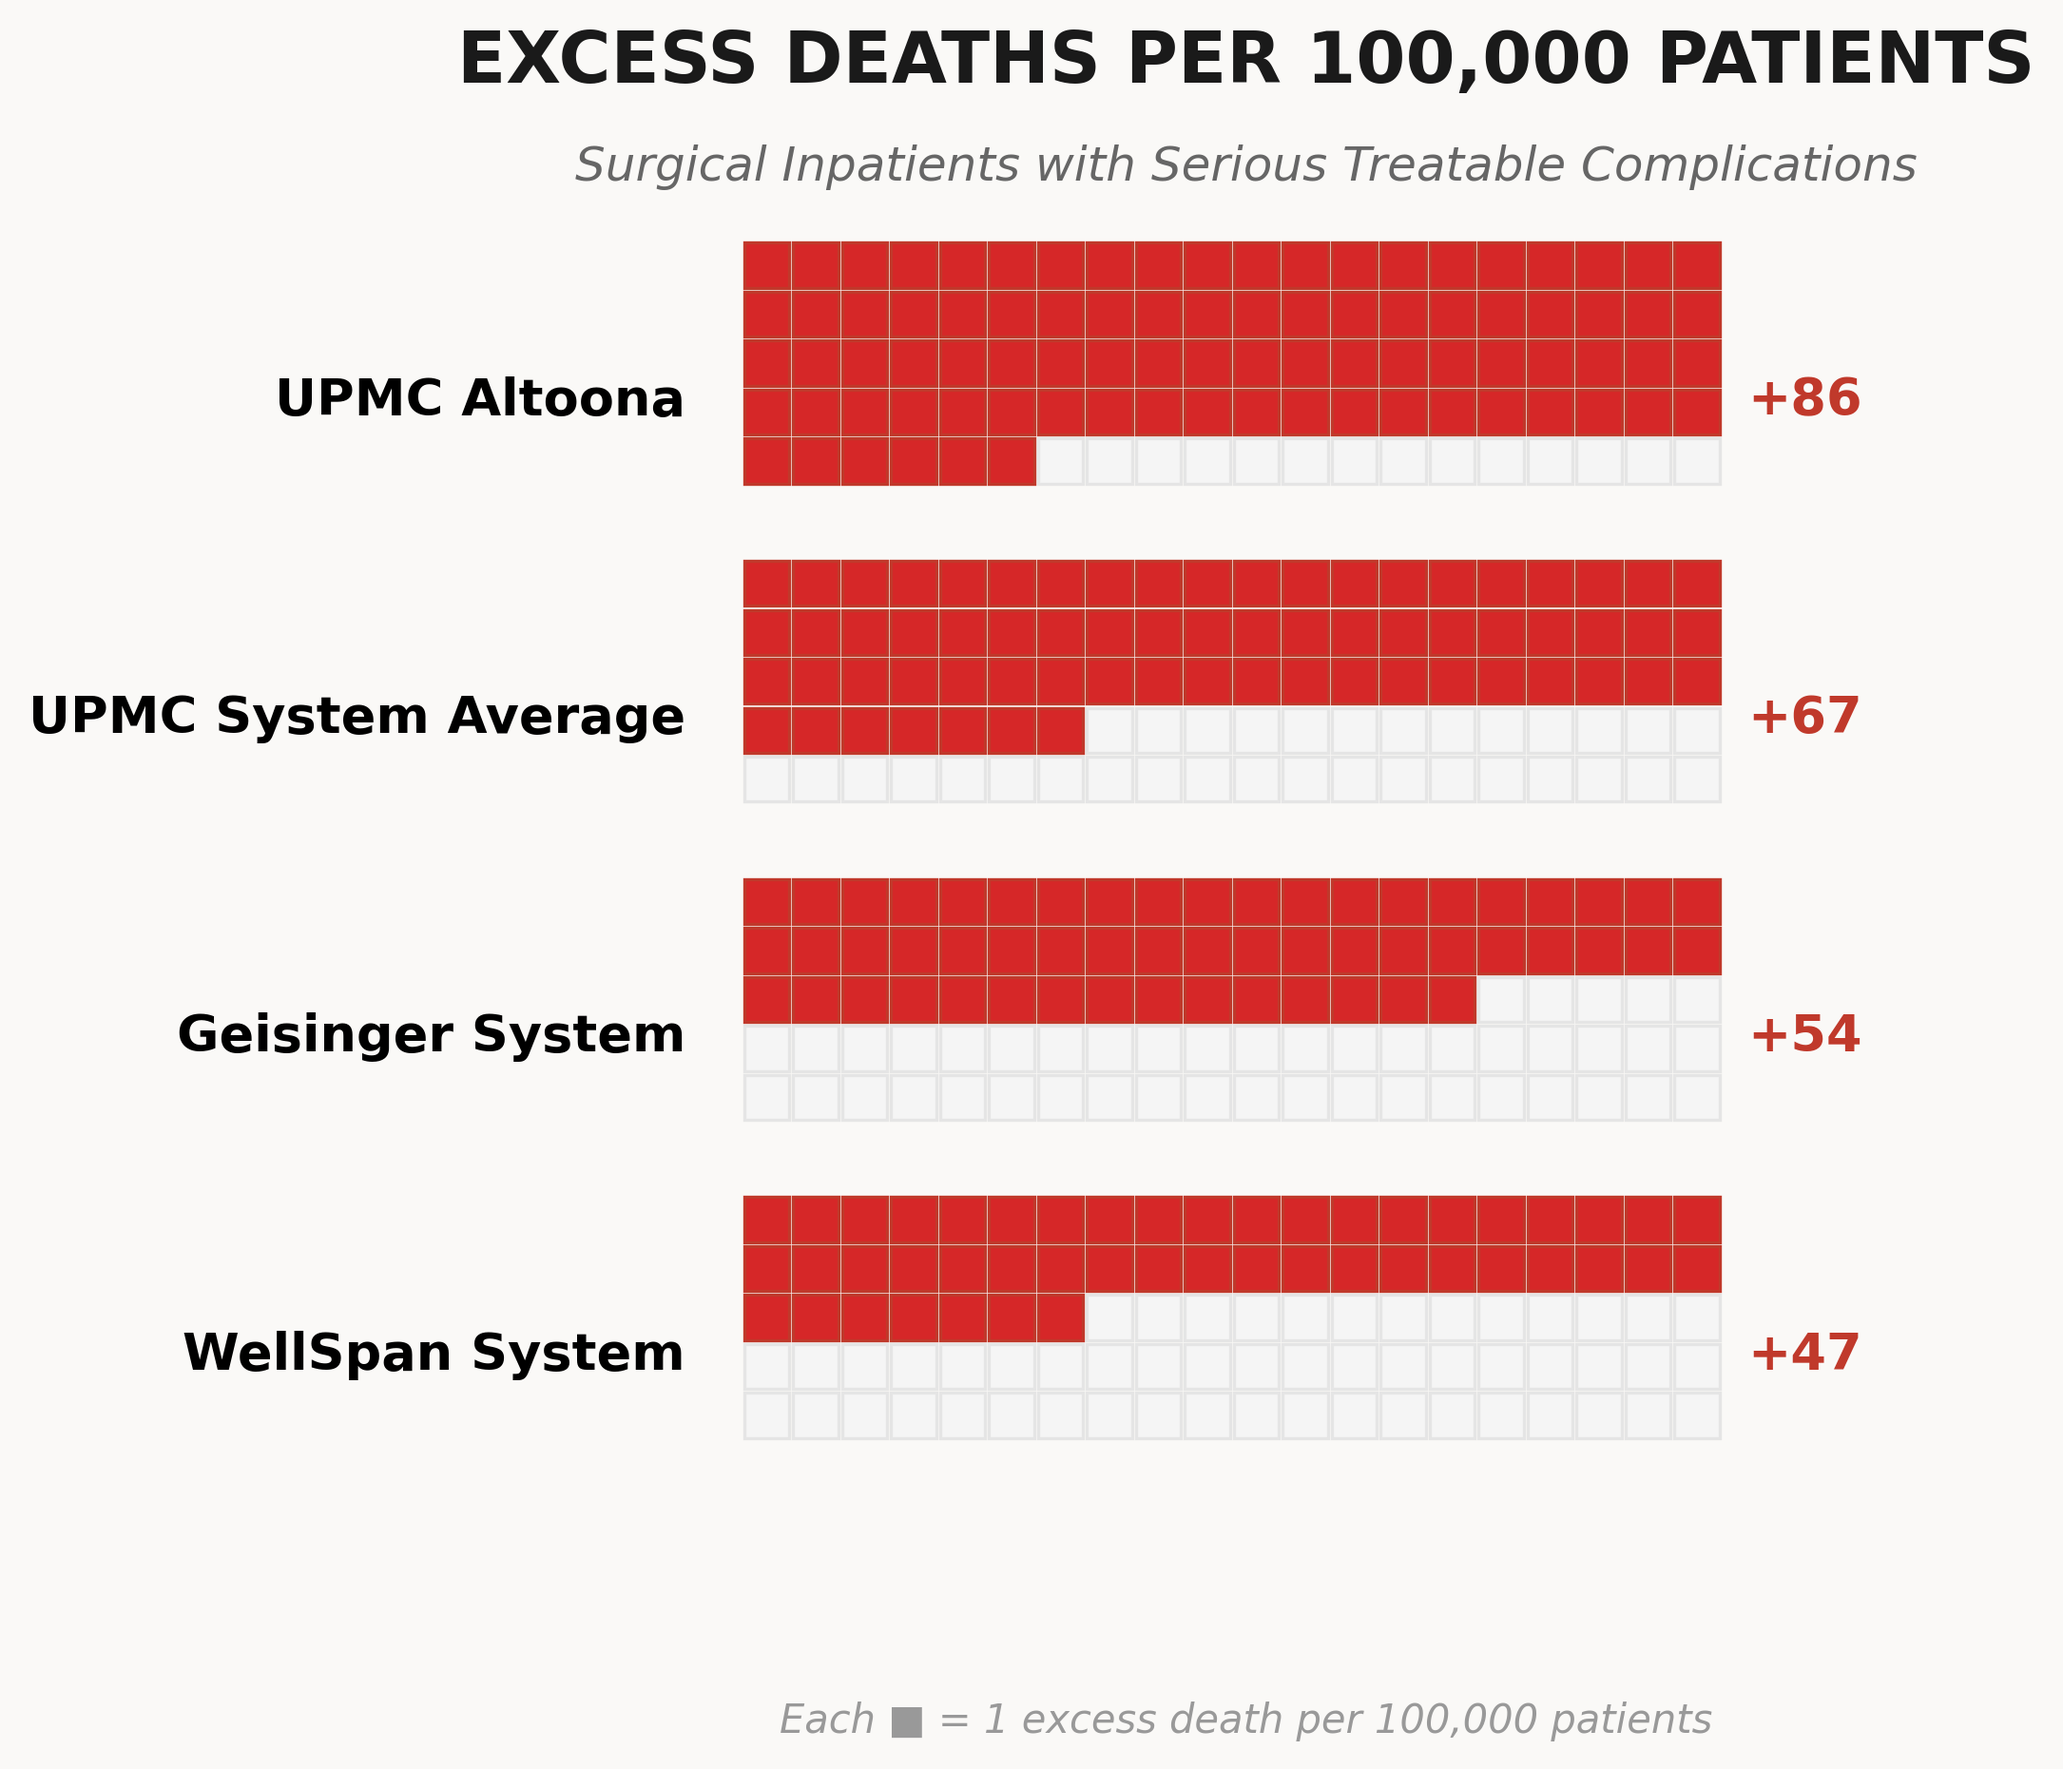
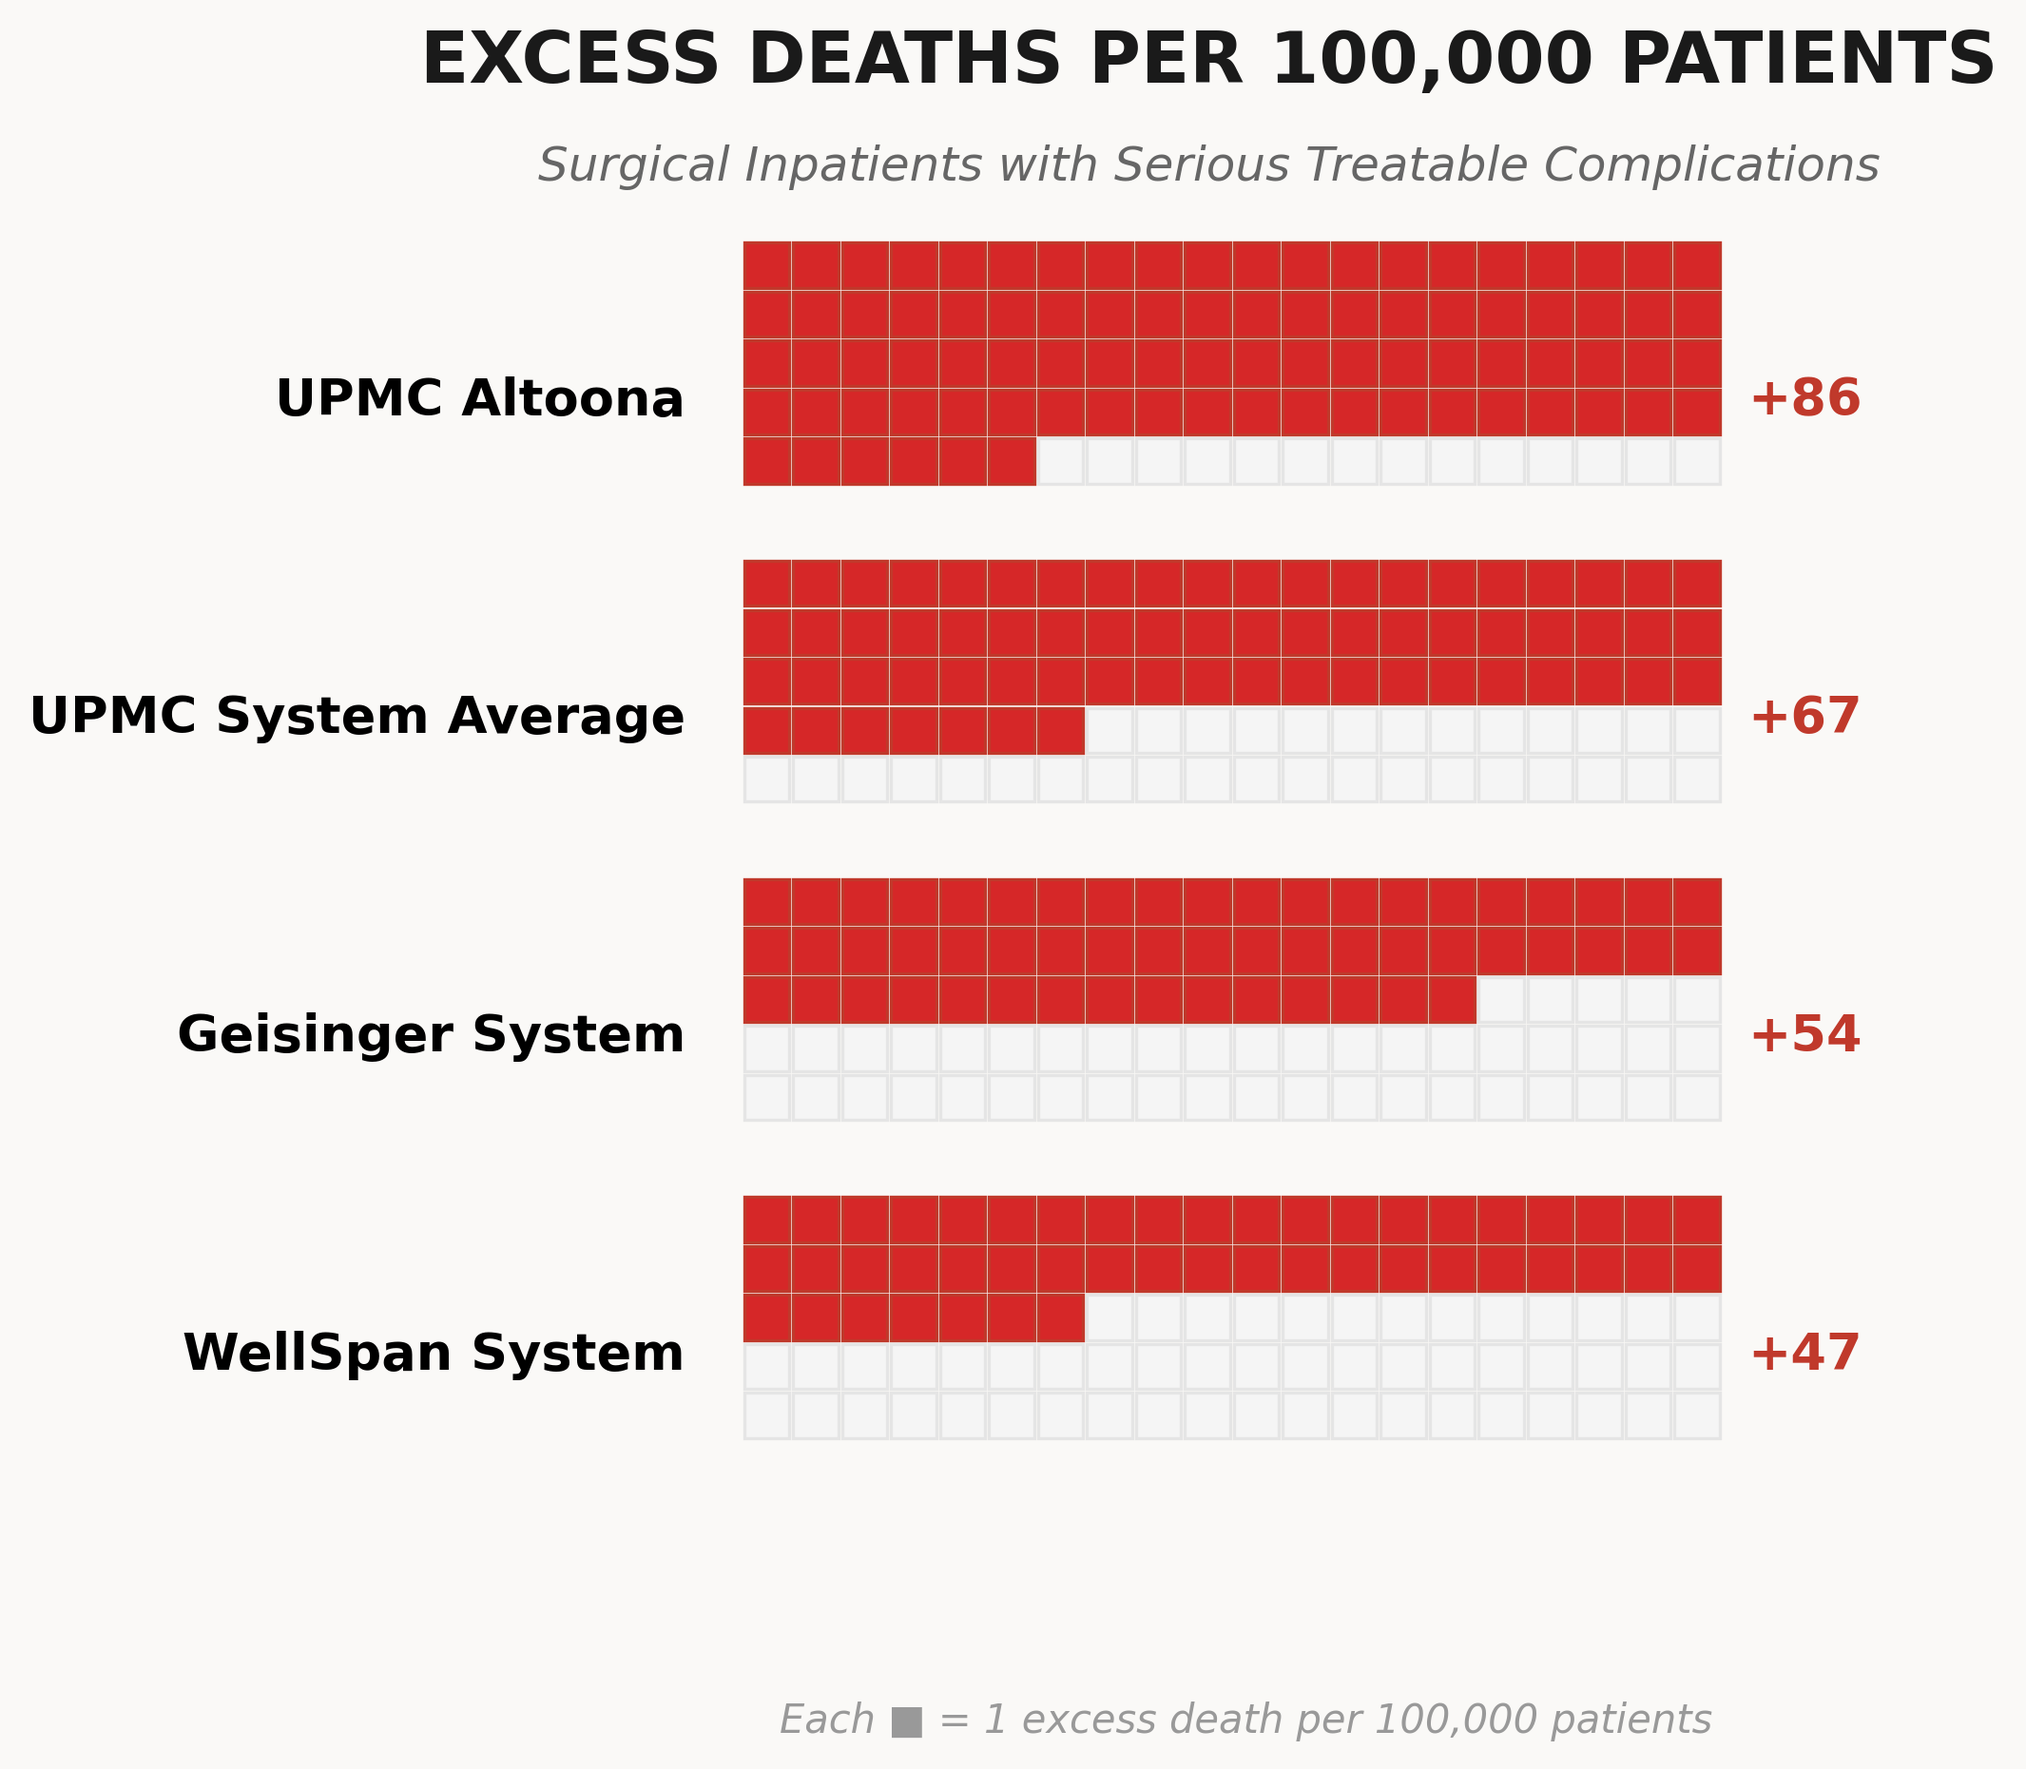
Center title and subtitle on waffle grid at x=9.5

diff --git a/create_true_waffle_chart.py b/create_true_waffle_chart.py
@@ -106,11 +106,10 @@ ax.set_ylim(y_start - (len(excess_deaths_data) * row_height) - 1, y_start + 1)
 ax.set_aspect('equal')
 ax.axis('off')
 
-# Title and subtitle - centered on axis, not figure
-center_x = (label_x - 0.3 + cols + 2) / 2  # Center of xlim
-ax.text(center_x, y_start + 4.2, 'EXCESS DEATHS PER 100,000 PATIENTS',
+# Title and subtitle - centered on waffle grid
+ax.text(9.5, y_start + 4.2, 'EXCESS DEATHS PER 100,000 PATIENTS',
         ha='center', fontsize=18, fontweight='bold', color='#1a1a1a')
-ax.text(center_x, y_start + 2.2, 'Surgical Inpatients with Serious Treatable Complications',
+ax.text(9.5, y_start + 2.2, 'Surgical Inpatients with Serious Treatable Complications',
         ha='center', fontsize=12, style='italic', color='#666')
 
 # Footer note
